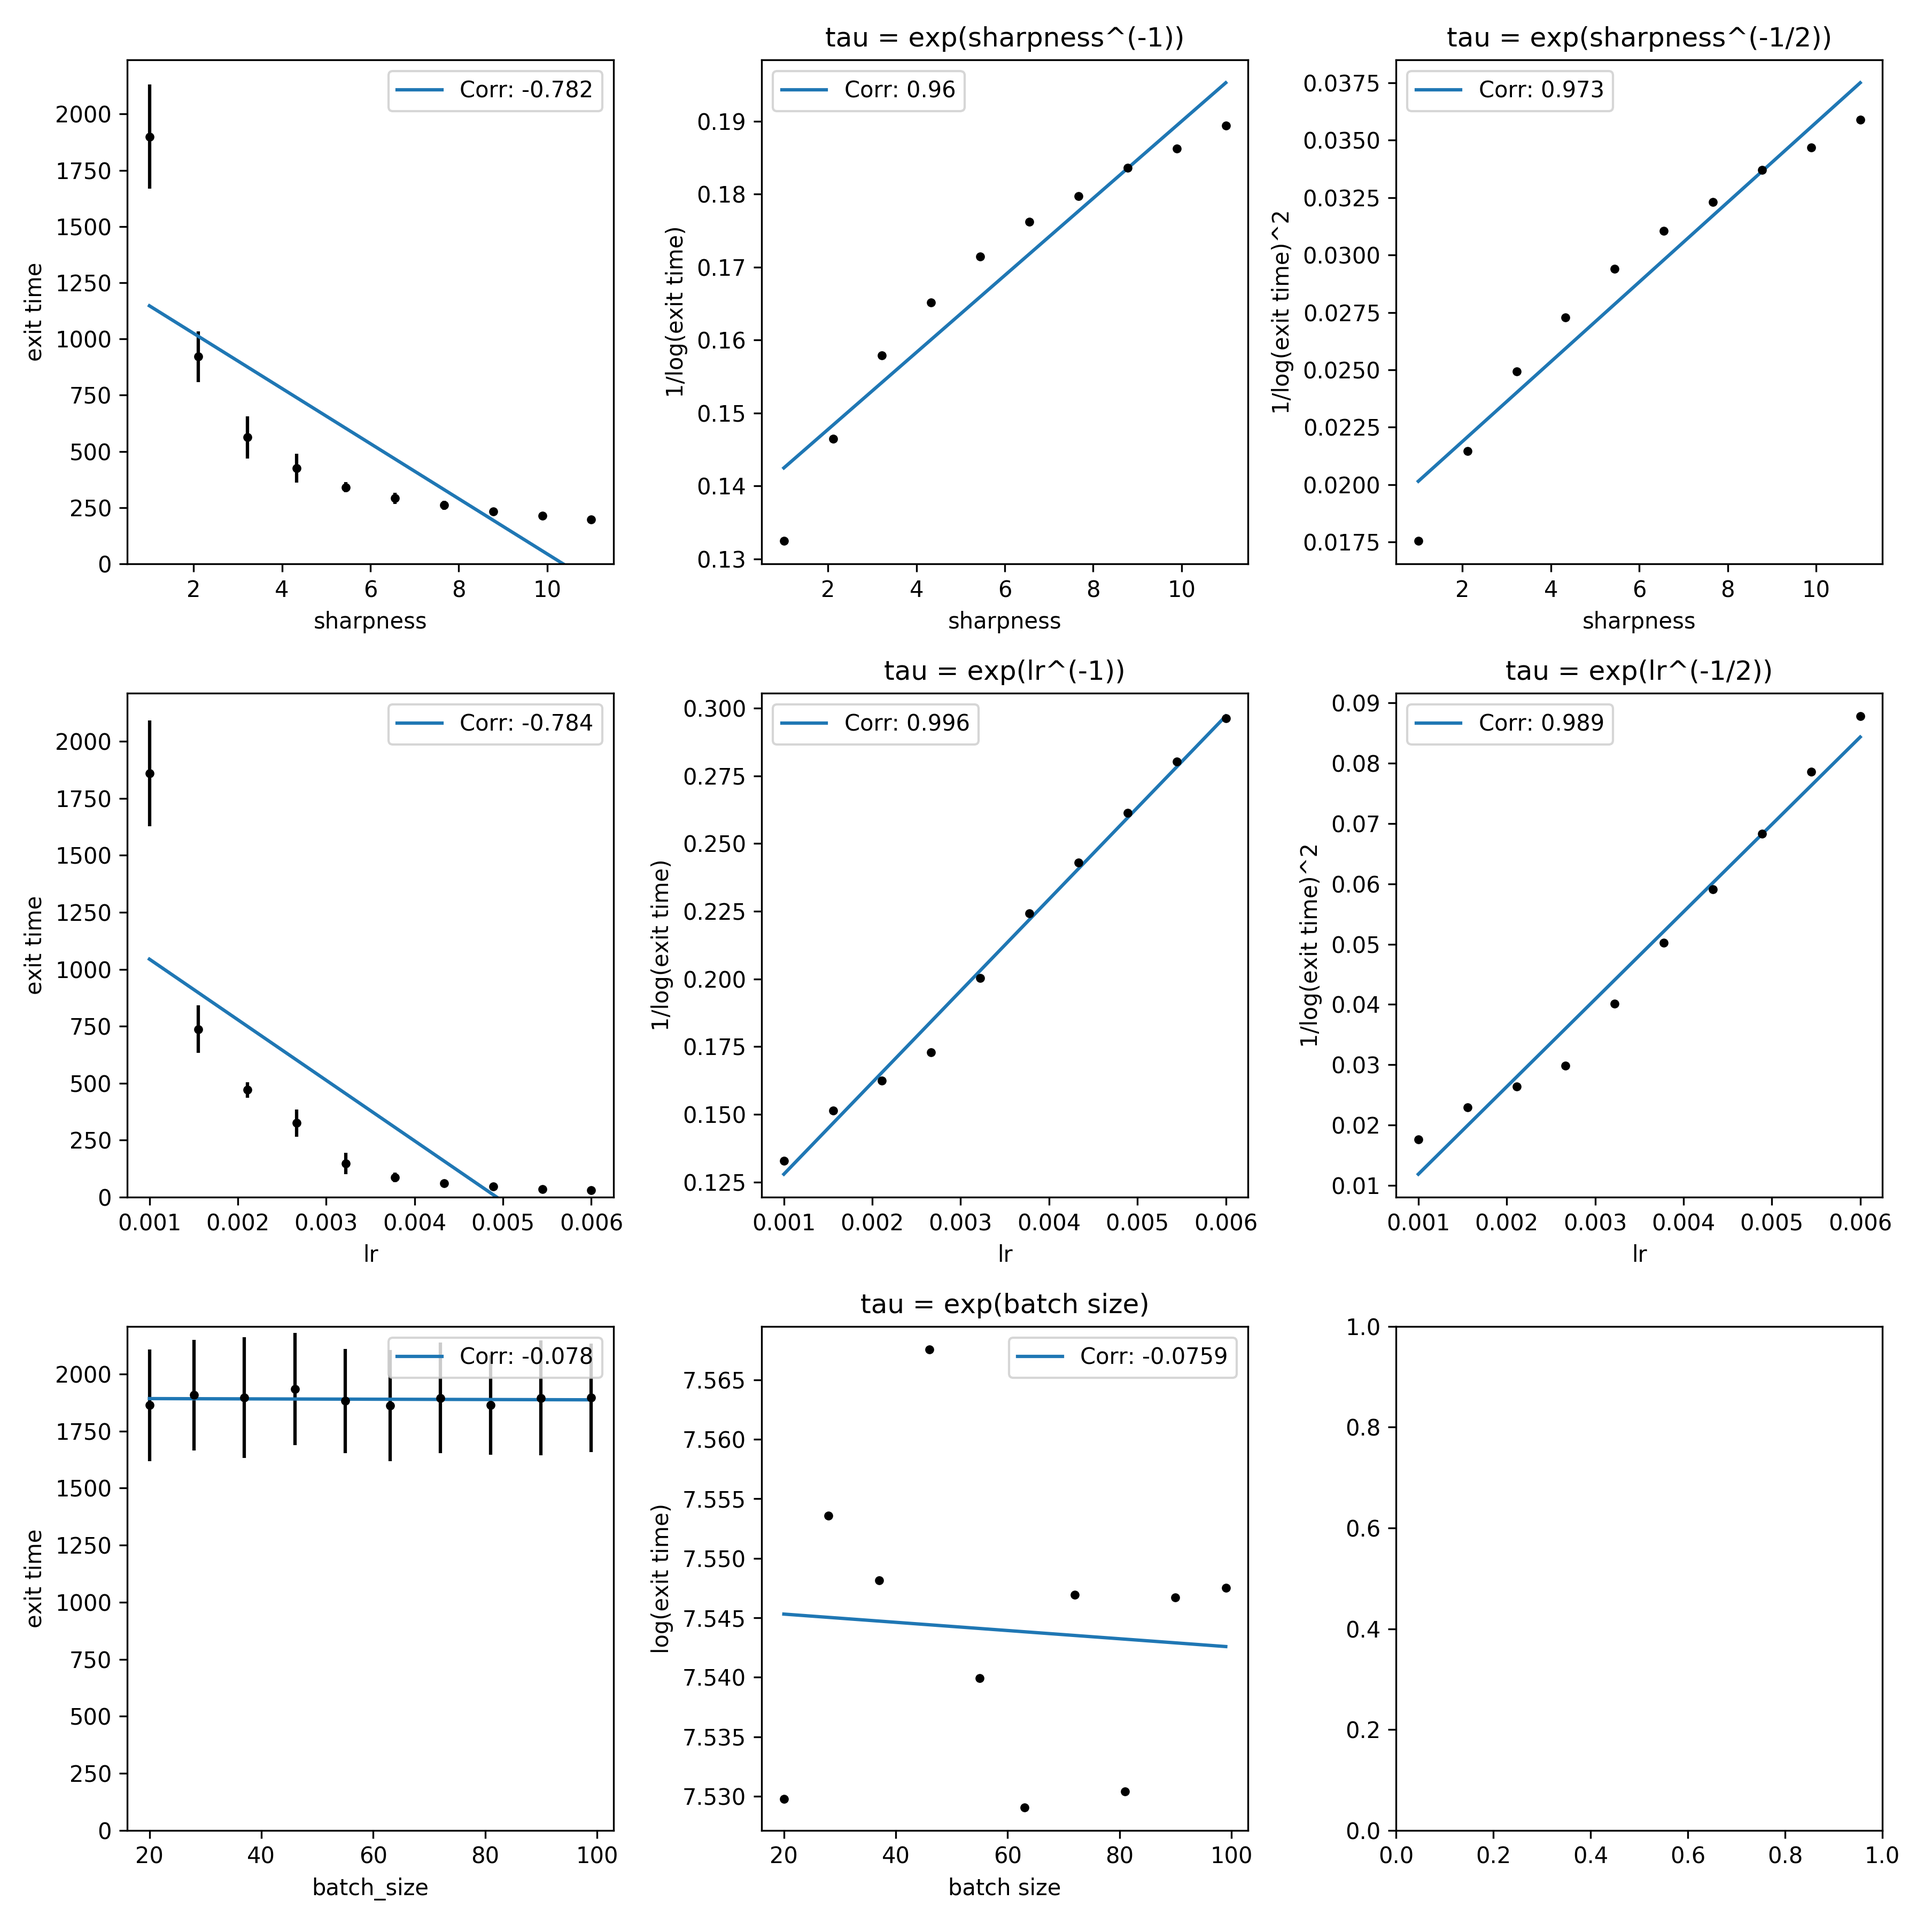
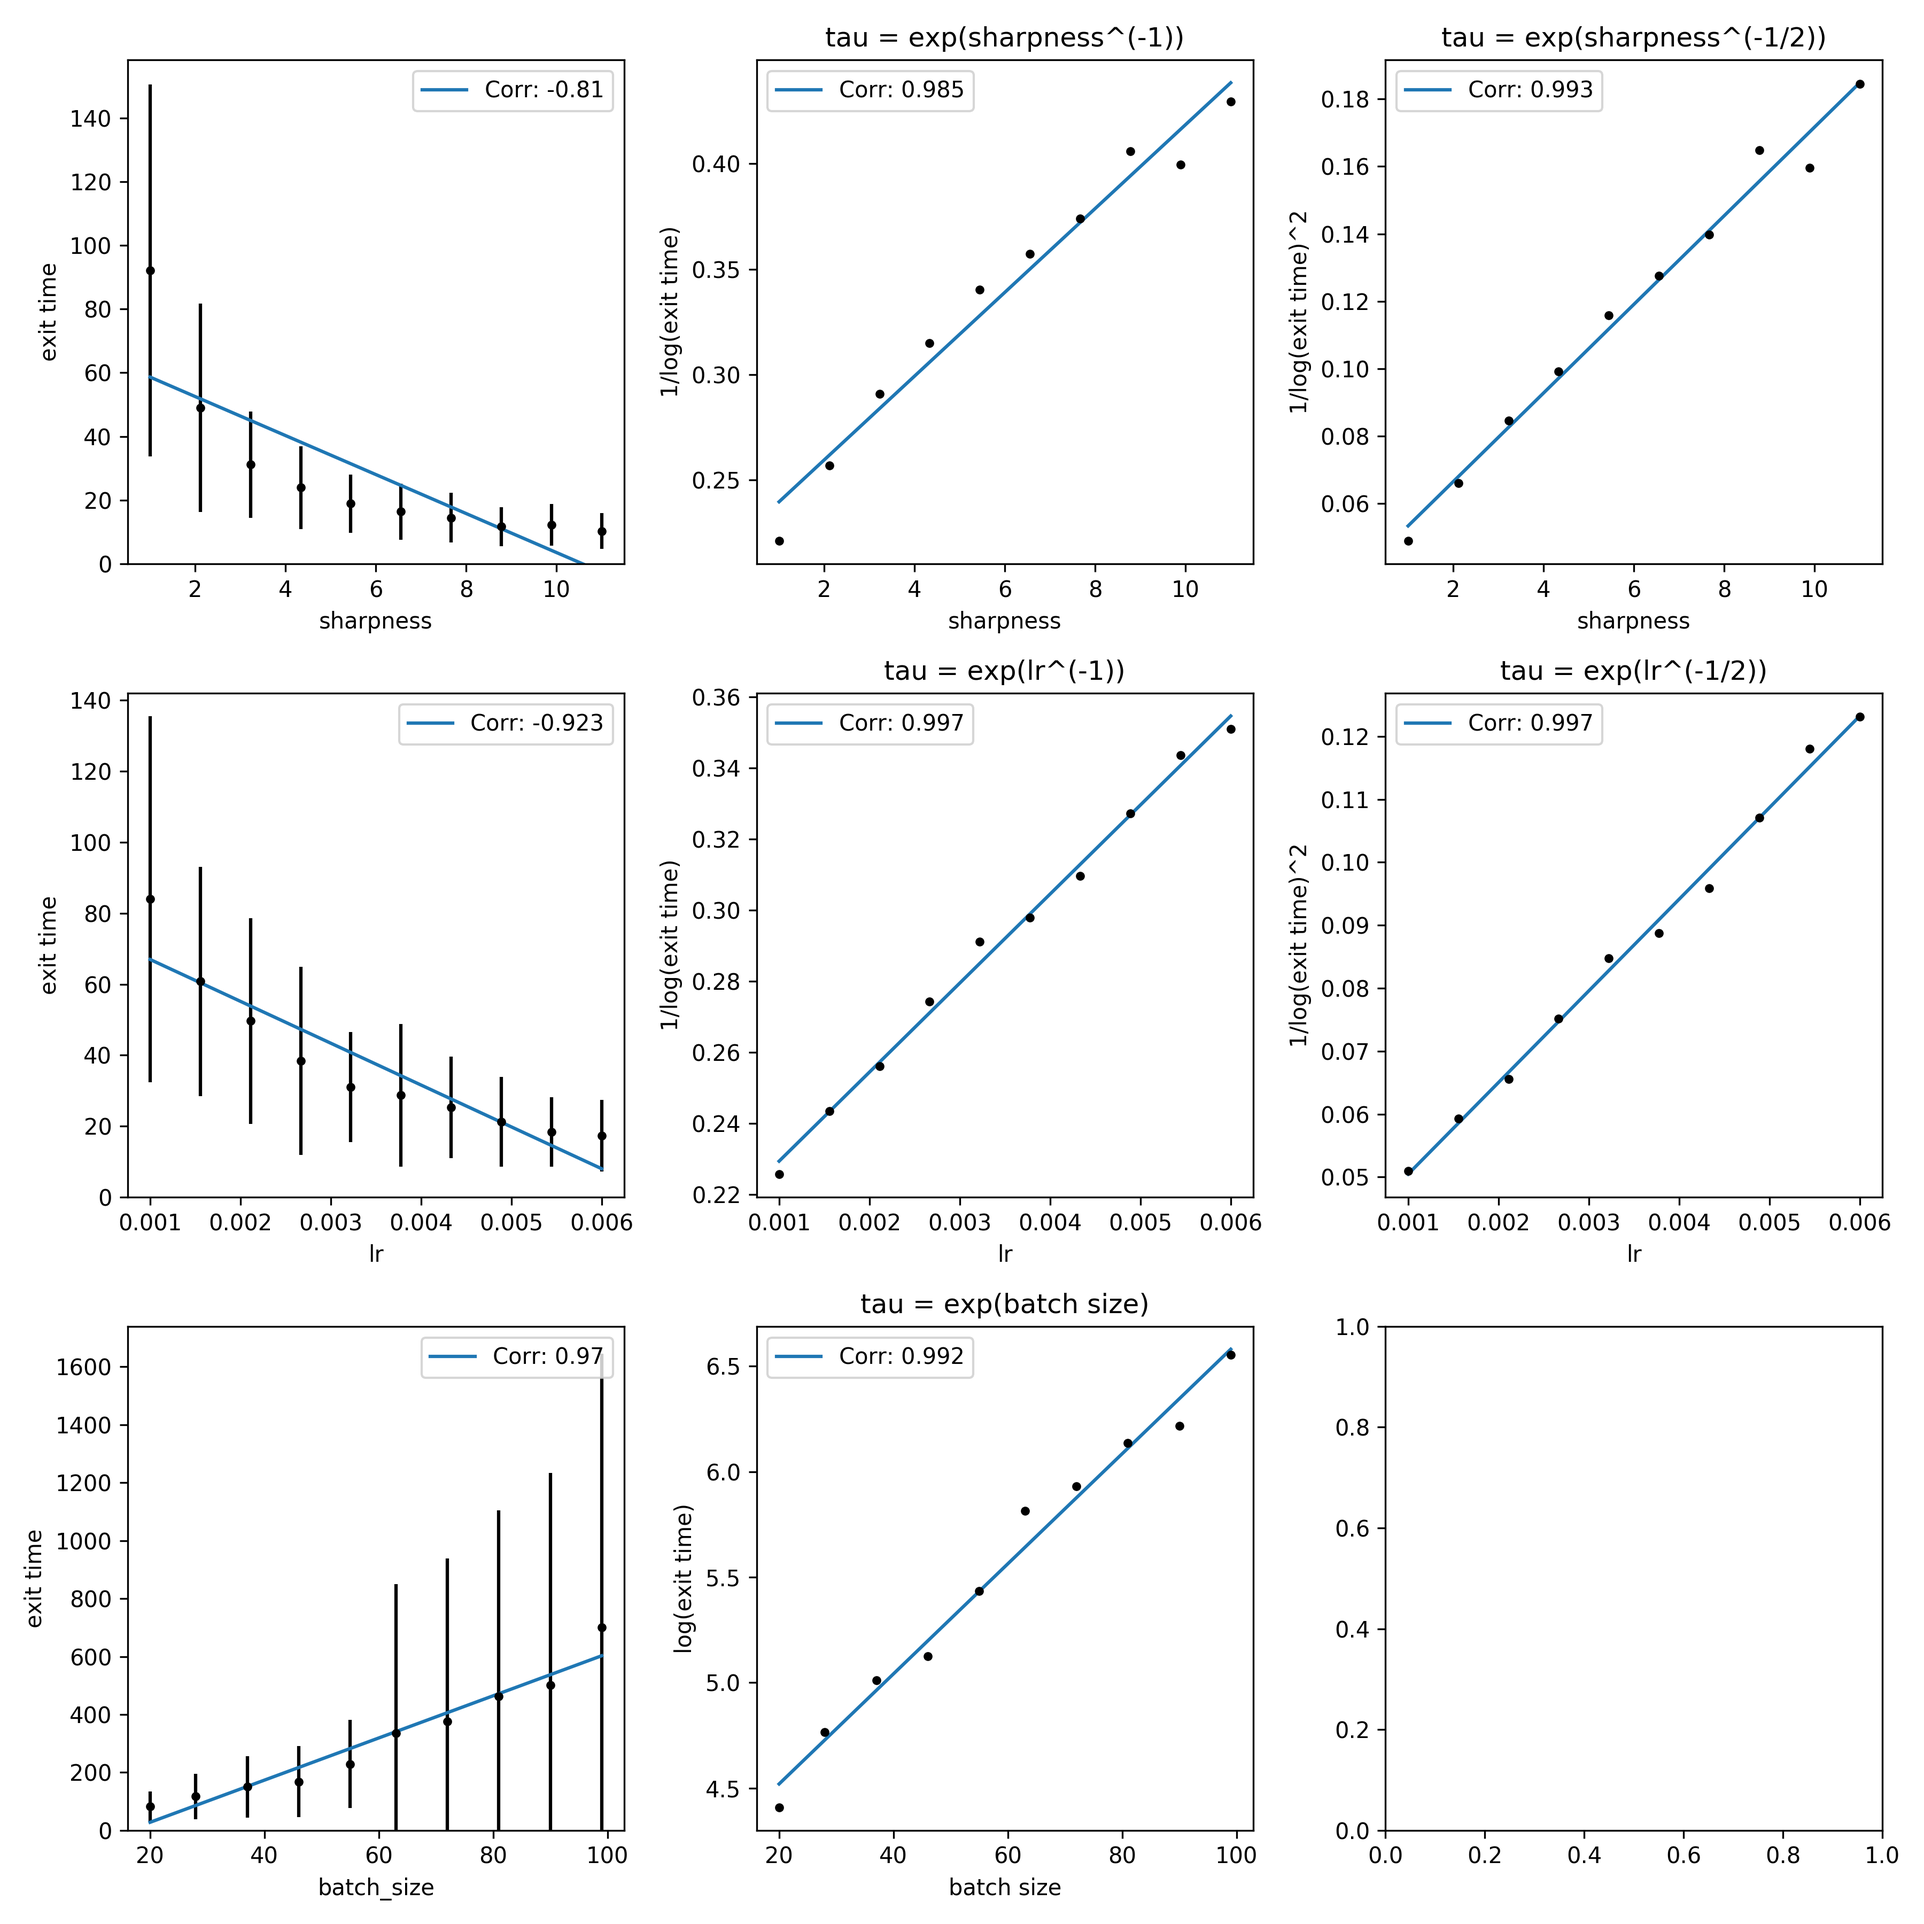
update

diff --git a/exit_time.py b/exit_time.py
@@ -274,12 +274,12 @@ def main():
     config['batch_size_interval'] = 80 
     config['exit_trial_num'] = 100 
     config['interval_sample'] = 10 
-    config['optim'] = "SGLD"
+    config['optim'] = "SGD"
     #
     config['data'] = 'AVILA2'
-    config['model'] = 'quad_func'
+    # config['model'] = 'quad_func'
     # config['model'] = 'styblinski_tang_func'
-    # config['model']   = 'MLP'
+    config['model']   = 'MLP'
 
     #
     comm = MPI.COMM_WORLD
